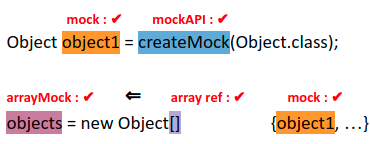
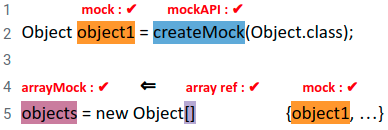
update images with line number, and add explanations for the process involved in figure 1 and 2

diff --git a/motivating-example.tex b/motivating-example.tex
@@ -7,13 +7,18 @@ In this section, we illustrate how \textsc{MockDetector} finds a mock object cre
 
 To motivate our work, consider Listing~\ref{lis:mockCall}, which presents a unit test case from the Maven project. Line 8 calls \textit{getRequest()}, invoking it on the mock object \texttt{session}. Line 12 then calls \textit{getToolchainsForType()}---this is the actual focal method whose behaviour is being tested. At the bytecode level, the two method invocations are indistinguishable with respect to mockness; to our knowledge, current static analysis tools cannot easily tell the difference between the method invocation on a mock object on line~\ref{line:mock} and the method invocation on a real object on line~\ref{line:real}. An IDE with information about mock invocations could provide better suggestions around it. And the uncertainty would confound a naive static analysis that attempts to identify focal methods. For instance, Ghafari et al~\cite{ghafari15:_autom}'s heuristic would fail on this test, as it returns the last mutator method in the object under test, and the focal method here is an accessor. 
 
-Figure~\ref{fig:focalMethodIllustration} shows how our analysis tool marks mock calls as not being potential focal method calls.
 
-[NEED BETTER EXPLANATION OF WHAT IS HAPPENING IN FIGURE 1 INCLUDING DISCUSSION OF THE ABSTRACTION]
+\textsc{MockDetector} maintains an abstraction mapping values (local variables or field references) in the Jimple intermediate representation (IR) to \texttt{MockStatus}, which holds three bits monitoring each value's status being a mock, a mock-containing array, and a mock-containing collection, respectively.
 
-While we were designing \textsc{MockDetector}, we observed several cases where developers store mock objects in arrays and collections. Listing~\ref{lis:container} presents method \textit{setUp()} in class \texttt{NodeListIteratorTest.java} from commons-collections-4.4, where line \ref{line:storeMocksInArray} puts the mock \texttt{Node} objects in the array-typed field \texttt{nodes}, which is later used in test cases. To find arrays containing mock objects, our analysis would first locate assignment statements containing array references, and would gather all the local variables or field references which appear as sources in these statements. It then checks whether any of these local variables or field reference sources have been marked as mock objects in the analysis. If so, then the tool would mark the local variable or field reference representing the array as an array mock---it propagates the mockness to this array container. Figure~\ref{fig:arrayMockIllustration} illustrates the process of identifying mock-containing containers.
+Figure~\ref{fig:focalMethodIllustration} shows how our analysis tool marks mock calls as not being potential focal method calls. Assuming we begin with an empty abstraction before line 2. For the object creation on line 2, since the \textit{Object()} constructor is not a Mock API, \texttt{object1} is not considered as a mock object. It is worth noting that our abstraction would not store \texttt{object1}'s Jimple IR with MockStatus's mock bit set to 0, but rather it is for demonstration purpose. When we iterate to line 5, as \texttt{object1}'s Jimple IR could not be found in the abstraction, we could not eliminate the possibility of method \textit{foo()} invoked on \texttt{object1} being the focal method.
 
-[SAME FOR FIGURE 2]
+On the other hand, our tool locates the mock-creation API, \textit{java.lang.Object mock(java.lang.Class)} on line 8, and the abstraction will store the mapping of \texttt{object2}'s Jimple IR to MockStatus with the mock bit set to 1. When it iterates to line 11, as \texttt{object2}'s Jimple IR could be found in the abstraction's key set,  with the mock bit being 1, \textsc{MockDetector} will deduce that method \textit{foo()} on line 11 cannot be a focal method, and stores the method's signature, along the class and line number where it is invoked, into an array list, named \textsc{NonFocalMethodList}. 
+
+
+While we were designing \textsc{MockDetector}, we observed several cases where developers store mock objects in arrays and collections. Listing~\ref{lis:container} presents method \textit{setUp()} in class \texttt{NodeListIteratorTest.java} from commons-collections-4.4, where line \ref{line:storeMocksInArray} puts the mock \texttt{Node} objects in the array-typed field \texttt{nodes}, which is later used in test cases. To find arrays containing mock objects, our analysis would first locate assignment statements containing array references, and would gather all the local variables or field references which appear as sources in these statements. It then checks whether any of these local variables or field reference sources have been marked as mock objects in the analysis. If so, then the tool would mark the local variable or field reference representing the array as an array mock---it propagates the mockness to this array container.
+
+
+Figure~\ref{fig:arrayMockIllustration} illustrates the process of identifying a mock-containing array. As \textsc{MockDetector} finds a Mock API on line 2, it stores \texttt{object1}'s Jimple IR with MockStatus setting mock bit to 1 into the abstraction. When analysis iterates to line 5, \textsc{MockDetector} finds an array reference, along with \texttt{object1} stored in the array at right hand side of the assignment statement. It finds \texttt{object1}'s Jimple IR in the abstraction's key set, with the mock bit turned on. It can now deduce that \textsc{objects} at the left hand side must represent an array container holding at least one mock object. Therefore, \textsc{MockDetector} puts \textsc{objects}' Jimple IR mapped to a MockStatus setting mock-containing array bit (named arrayMock flag) turned on into the abstraction. 
 
 \lstset{language=java,
     keywordstyle=\color{blue}\bfseries,
